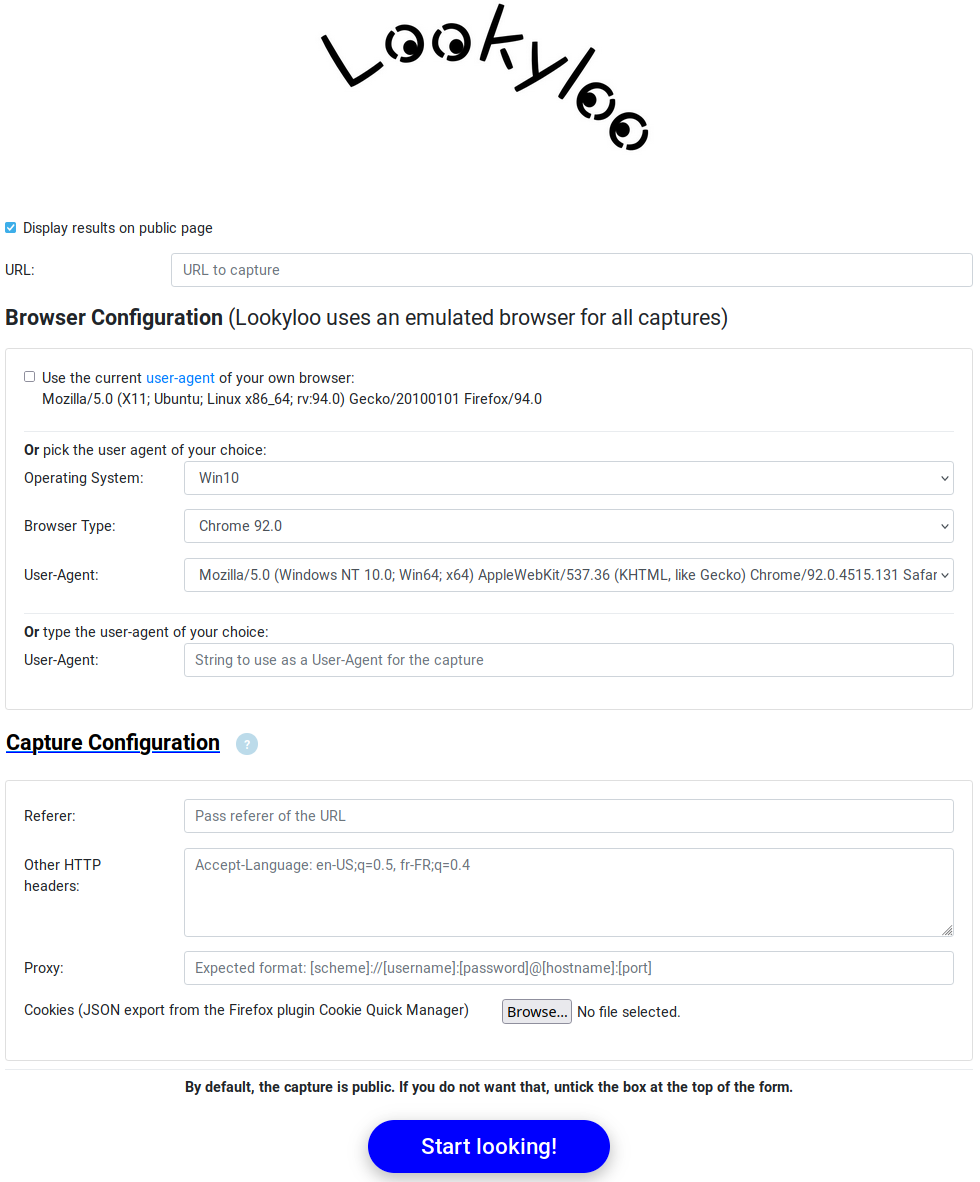
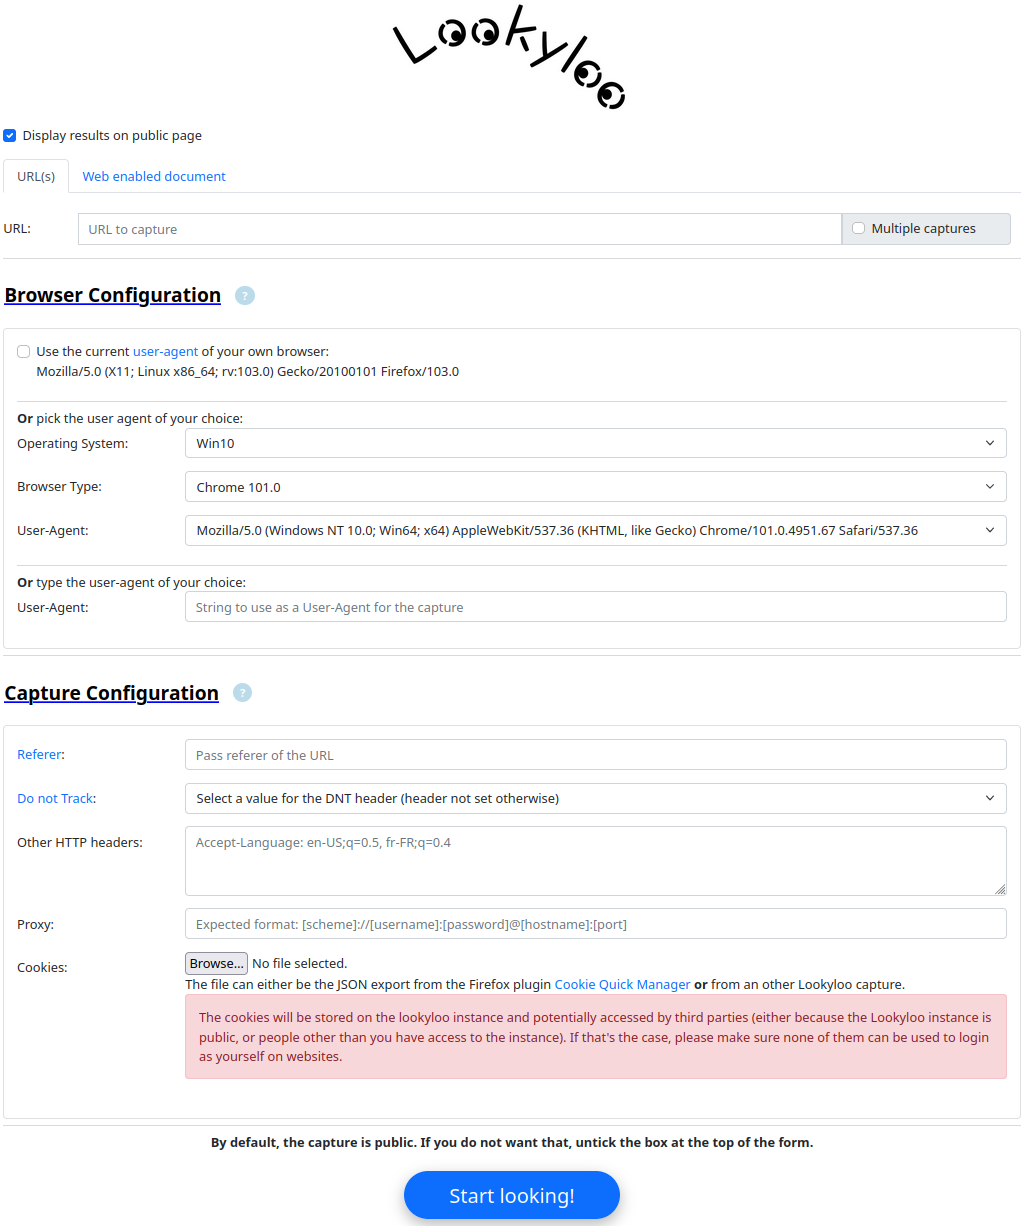
chg: Bump website

diff --git a/docs/docs/main/usage.html b/docs/docs/main/usage.html
@@ -217,15 +217,15 @@ to our <a href="https://lookyloo.circl.lu/">demo instance</a>. On the loaded pag
 <h2 id="_start_a_new_capture"><a class="anchor" href="#_start_a_new_capture"></a>Start a New Capture</h2>
 <div class="sectionbody">
 <div class="paragraph">
-<p>This is the entry point when you want to investigate a website.</p>
-</div>
-<div class="imageblock">
-<div class="content">
-<img src="_images/capture.png" alt="Capture form">
-</div>
+<p>This is the entry point when you want to investigate a website. You must give a URL, or submit a document, but all the other fields are optional.</p>
 </div>
 <div class="sect2">
 <h3 id="_url"><a class="anchor" href="#_url"></a>URL</h3>
+<div class="imageblock">
+<div class="content">
+<img src="_images/capture_url.png" alt="URL(s) capture field">
+</div>
+</div>
 <div class="paragraph">
 <p>The only required field is the <strong>URL</strong>, which is the URL you want to capture. It might be the
 index page of the domain to capture:</p>
@@ -248,11 +248,27 @@ index page of the domain to capture:</p>
 </ul>
 </div>
 <div class="paragraph">
-<p>The other fields can be left blank and the default parameters for the instance will be used.</p>
+<p>If you tick the multiple capture box, you can capture multiple URLs ar once (one per line).</p>
+</div>
+</div>
+<div class="sect2">
+<h3 id="_web_enabled_document"><a class="anchor" href="#_web_enabled_document"></a>Web enabled document</h3>
+<div class="imageblock">
+<div class="content">
+<img src="_images/capture_doc.png" alt="Web document capture field">
+</div>
+</div>
+<div class="paragraph">
+<p>You can select a file (preferably HTML) on your disk and submit it to Lookyloo.</p>
 </div>
 </div>
 <div class="sect2">
 <h3 id="_browser_configuration"><a class="anchor" href="#_browser_configuration"></a>Browser Configuration</h3>
+<div class="imageblock">
+<div class="content">
+<img src="_images/capture_browser_config.png" alt="Configuration options for the browser doing the capture">
+</div>
+</div>
 <div class="paragraph">
 <p>Lookyloo will <strong>always</strong> use a dedicated browser (<a href="//playwright.dev/python/">playwright</a>),
 but you can pass it parameters, such as the user agent.</p>
@@ -298,7 +314,7 @@ what you&#8217;re doing, especially if you&#8217;re using the demo interface, as
 </div>
 <div class="imageblock">
 <div class="content">
-<img src="_images/capture-advanced.png" alt="capture advanced">
+<img src="_images/capture_config.png" alt="Configuration options the capture itself">
 </div>
 </div>
 <div class="sect3">
@@ -312,6 +328,15 @@ what you&#8217;re doing, especially if you&#8217;re using the demo interface, as
 <div class="paragraph">
 <p><strong>Note</strong>: It may not be enough and the website may also require a cookie. If it is the case, see below.</p>
 </div>
+</div>
+</div>
+<div class="sect2">
+<h3 id="_do_not_track"><a class="anchor" href="#_do_not_track"></a>Do not Track</h3>
+<div class="paragraph">
+<p>The <a href="https://en.wikipedia.org/wiki/Do_Not_Track">DNT</a> header is optional and will not be set unless you select one of the value (0, 1, null).</p>
+</div>
+<div class="paragraph">
+<p><strong>Usecase</strong>: the header is deprecated and will be ignored by many websites. It might still be interested to see how different websites handle its presence.</p>
 </div>
 <div class="sect3">
 <h4 id="_other_http_headers"><a class="anchor" href="#_other_http_headers"></a>Other HTTP Headers</h4>
@@ -350,16 +375,6 @@ If you don&#8217;t have that, something is incorrect with your tor configuration
 <div class="paragraph">
 <p>It will be empty by default, but please refer to the related documentation in order to
 initiate a new capture with <a href="capture-cookies.html" class="xref page">a pre-refined cookie</a>.</p>
-</div>
-</div>
-<div class="sect3">
-<h4 id="_depth"><a class="anchor" href="#_depth"></a>Depth</h4>
-<div class="paragraph">
-<p>It is not enabled by default because it will most of the time take too long on most websites. The default depth is 1 (capture only the given URL).</p>
-</div>
-<div class="paragraph">
-<p>If you enable the feature, a value of 2 will capture the given URL, extract all the links in the page, pick all the ones with the same hostname as the
-initial URL, and capture them. As you can imagine, it may get huge very fast.</p>
 </div>
 </div>
 </div>

diff --git a/docs/docs/main/lookyloo-integration.html b/docs/docs/main/lookyloo-integration.html
@@ -252,6 +252,26 @@ for all the redirected nodes up to the one containing the rendered page.</p>
 </div>
 </div>
 <div class="sect1">
+<h2 id="_riskiq_v1_14"><a class="anchor" href="#_riskiq_v1_14"></a>RiskIQ (v1.14+)</h2>
+<div class="sectionbody">
+<div class="paragraph">
+<p>This module triggers a request against the Passive DNS endpoint of <a href="https://api.riskiq.net/api/concepts.html">RiskIQ</a>
+for the domain of the final URL (after all the redirects).</p>
+</div>
+<div class="paragraph">
+<p>The module is not enabled by default because you need to create an account, and use
+an API key.</p>
+</div>
+<div class="paragraph">
+<p><strong>Important</strong>: the query limit for a standard API key is very low, so you will hit
+it very fast if you do not have a paid plan with them.</p>
+</div>
+<div class="paragraph">
+<p><strong>Note</strong>: <code>allow_auto_trigger</code> is ignored if <code>auto_trigger_modules</code> in <code>config/generic.json</code> is <code>false</code>.</p>
+</div>
+</div>
+</div>
+<div class="sect1">
 <h2 id="_hashlookup_v1_10"><a class="anchor" href="#_hashlookup_v1_10"></a>Hashlookup (v1.10+)</h2>
 <div class="sectionbody">
 <div class="paragraph">

diff --git a/docs/docs/main/lookyloo-configuration.html b/docs/docs/main/lookyloo-configuration.html
@@ -223,12 +223,6 @@ The default options will work out of the box on a <a href="install-lookyloo.html
 <p><code>public_domain</code>: Domain where the instance can be reached. Used for permalinks (e-mail, MISP export).</p>
 </li>
 <li>
-<p><code>default_user_agent</code>: Ultimate fallback if the capture form, or the asynchronous submission, doesn&#8217;t provide a user agent.</p>
-</li>
-<li>
-<p><code>max_depth</code>: Maximum depth for scraping. Anything &gt; 1 will be exponentially bigger.</p>
-</li>
-<li>
 <p><code>async_capture_processes</code>: Number of async_capture processes to start.
 A very high number will use <strong>a lot</strong> of ram.</p>
 </li>
